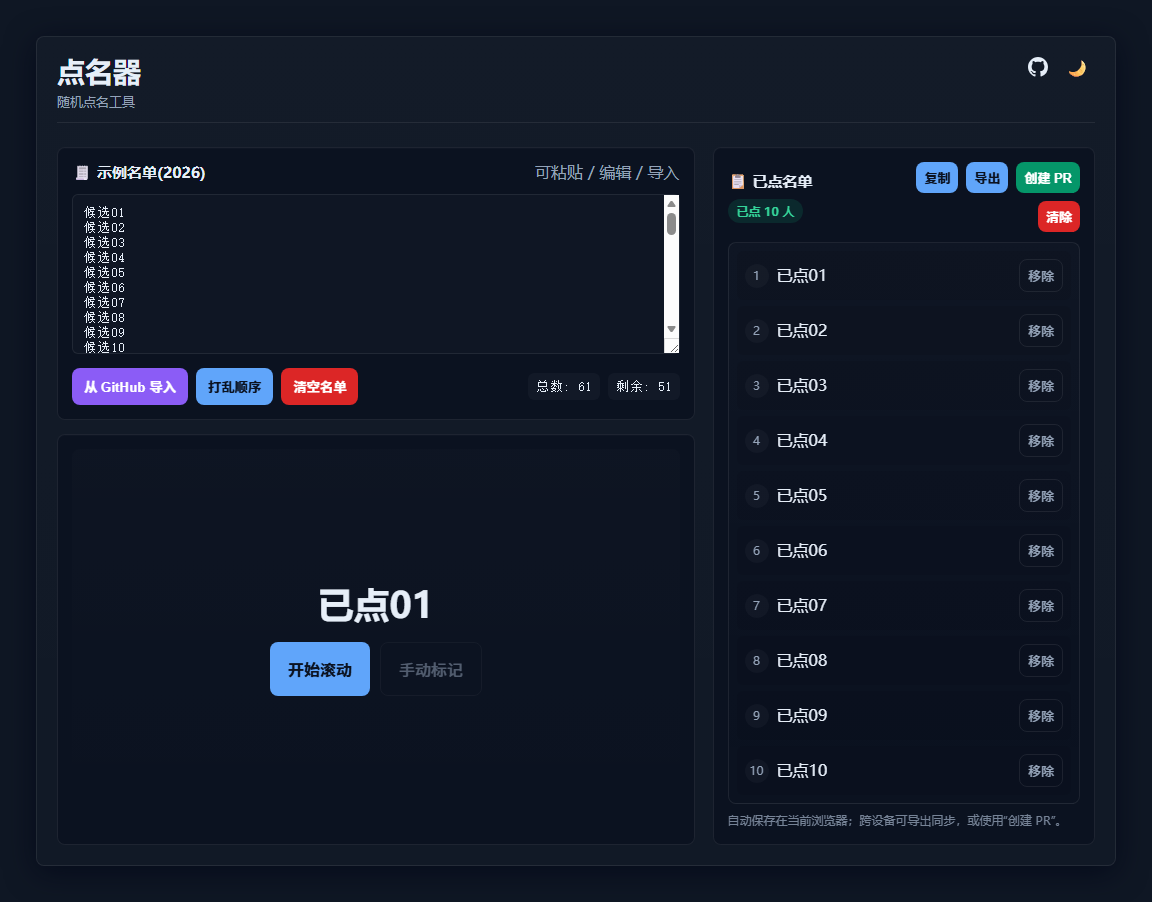
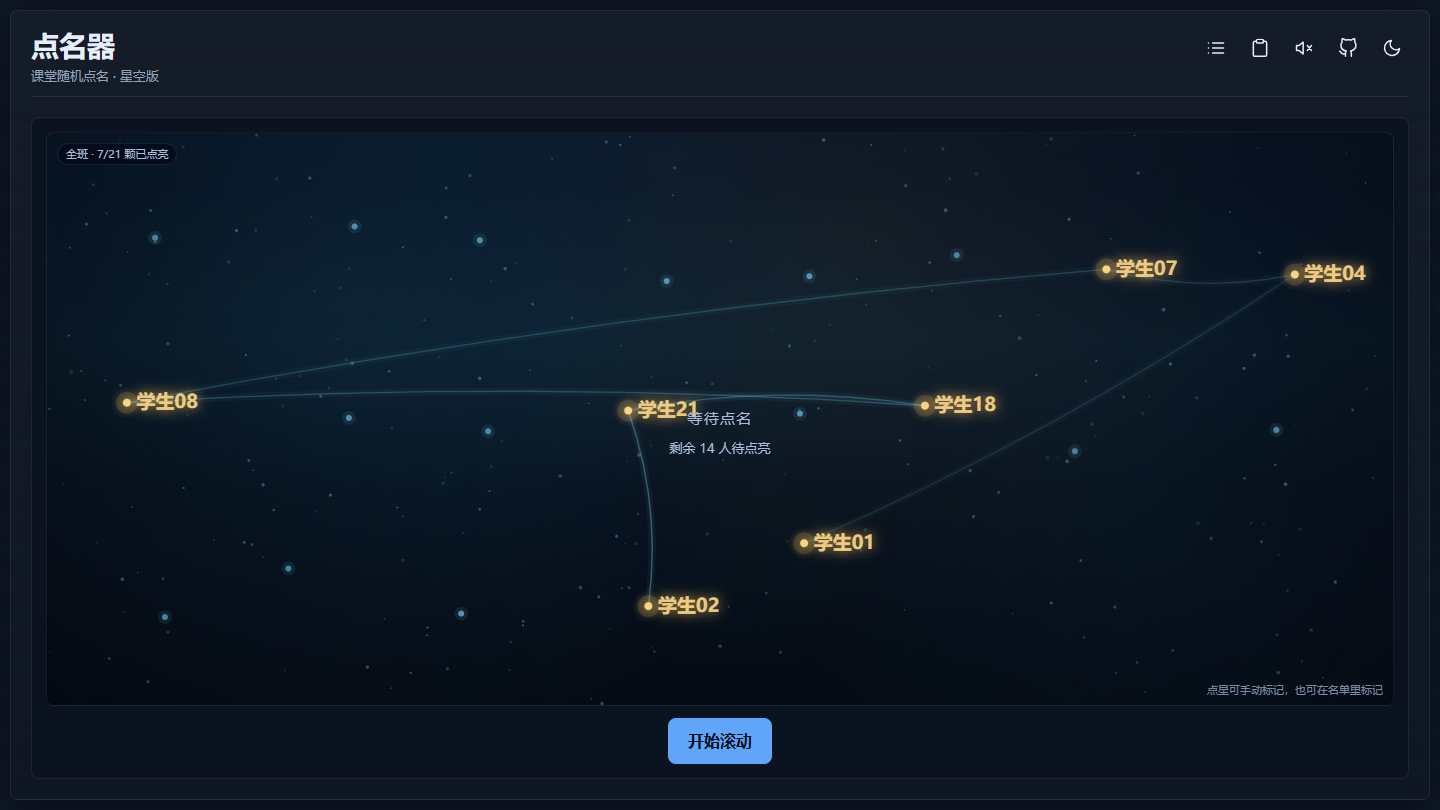
docs: README 与界面截图同步星空版
- README 重写：移除经典/星空双模式、名单区自动收起、右侧栏、切换视图等全部过时描述
- 改为纯星空 + 左右抽屉 + 双通道标记 + 星盘拖放 + 默认静音的准确口径
- 补齐数据迁移、隐私、reduced-motion 与 Pages 部署分支说明
- image/screenshot.png 换成 1440x810 首屏纯星空图，姓名均为「学生01…21」占位数据，不含真实班级名/学号/姓名
- 旧经典视图截图已备份（本地备份目录，不入库）

diff --git a/README.md b/README.md
@@ -1,36 +1,33 @@
 # 点名器（Rollcall）
 
-一个可直接离线使用的课堂随机点名工具。支持经典与星空两种视图：名单导入、随机抽取、已点名单记录与跨设备续点，都围绕课堂现场的实际操作设计。
+一个可直接离线使用的课堂随机点名工具。名单是星：点名即点亮，已点的星连成星座。首屏只有一片星空和一个「开始滚动」，名单与点名记录都收进两侧抽屉，不占用投影画面。
 
 [![界面截图](image/screenshot.png)](image/screenshot.png)
 
 在线体验：[点名器在线页面](https://psychelzh.github.io/rollcall/)
 
-> `image/screenshot.png` 是经典视图的旧版截图；星空模式的实际效果请打开页面后点右上角「星空」切换查看。
+> 在线页面跟随仓库默认分支。本次星空版位于 `starfield` 分支，合并到默认分支后线上才会更新。
 
-## 这一版改了什么
+## 这一版的界面
 
-| 环节 | 以前 | 现在 |
-| --- | --- | --- |
-| 名单导入 | 只能手动粘贴，或先传到 GitHub 仓库再联网拉取 | 本地文件拖拽 / 点选，支持 .txt / .csv / .tsv，可一次选多份 |
-| CSV 解析 | 按换行硬切，表头和多列会被当成一个「姓名」 | 自动跳过表头、识别姓名列与「班级」列，兼容 BOM、CRLF、引号、逗号/制表符/分号分隔 |
-| 导入确认 | 直接覆盖，且会清空已点记录 | 先预览人数、星区、重复项、异常行，再选「追加」或「替换」，默认保留已点进度 |
-| 已点名单上传 | 没有对应功能，导出是单向的 | 「传回」把导出的文件重新载入并接续进度；「同步」把提交 GitHub 简化为填仓库 + PAT 两步 |
-| 点名界面 | 只有文字滚动 | 新增可切换的「星空模式」：学生是星，点名即点亮，已点的星连成星座 |
+| 位置 | 内容 |
+| --- | --- |
+| 首屏 | 整片星图 + 一个「开始滚动」按钮；名单输入框、控制按钮、已点名单都不常驻 |
+| 头部「名单」按钮 | 左侧滑出抽屉：粘贴 / 编辑名单、拖入或选择文件、GitHub 导入、打乱、清空、待点名单逐人列表 |
+| 头部「已点名单」按钮 | 右侧滑出抽屉：已点列表、复制 / 导出 / 传回 / 同步 / 清除 |
+| 其他头部按钮 | 抽中提示音开关（默认关闭）、白天 / 夜间主题、项目仓库 |
 
-## 星空模式
+两个抽屉互斥，点遮罩、按 Esc 或点关闭按钮都能退出。星图始终是深空底色；白天 / 夜间主题只改变页面外壳，不改变画布。
 
-- 一名学生对应一颗星，位置按姓名哈希固定，点名不会让任何一颗星换位置，刷新也不乱跑。
-- 未点是暗星；滚动时星光在星群间流转；停止时定格点亮，带辉光与涟漪。
-- 已点亮的星按点名先后连成星座线，一学期下来逐步连满。
-- **星空模式不占右侧栏**：星图吃满整行宽度；名单区自动收成一行摘要（班级、人数、已点、剩余），点右侧小箭头可随时展开。
-- **已点学生的姓名直接标在各自星点旁**，星图本身就是完整的点名记录，不必再看侧边列表。
-- 点击未点亮的星可以直接手动标记；命名与增删改到「经典」视图操作（导出、传回、同步、清除也在那里）。
-- 星空画布始终是深空底色，课堂投影对比度更高；页面白天 / 夜间主题不影响画布。
-- 大号姓名只在滚动与出结果时出现，空闲时星图保持完整可见。
-- 星点与标注大小随画布自适应，1920×1080 与 1366×768 投影下都保持可读。
+## 名单导入
 
-**分组规则**
+- 支持 `.txt` / `.csv` / `.tsv`，可一次选多份，也可直接粘贴姓名（每行一个，或逗号 / 分号分隔）。
+- 可把文件拖进名单抽屉的虚线区，也可**直接拖到整片星图上**，不必先打开抽屉。
+- CSV 自动跳过表头、识别姓名列与「班级」列，兼容 BOM、CRLF、引号与多种分隔符。
+- 导入前先预览人数、星区、重复项与异常行，再选「追加」或「替换」；默认保留已有点名进度。
+- 也可从 GitHub 仓库读取 CSV 导入（需网络，属于用户主动发起的请求）。
+
+**星区规则**：班级信息是可选增强，不是必填项。
 
 | 导入时掌握的信息 | 星图表现 |
 | --- | --- |
@@ -38,30 +35,40 @@
 | 单个文件带「班级」列 | 按该列取值分星区 |
 | 只有一个名单、没有任何班级信息 | 全班一片星空 |
 
-班级信息是可选增强，不是必填项。工具不会因为缺班级信息而强行分组或要求补填；导入预览里报几个星区，确认后就是几个。
+预览里报几个星区，确认后就是几个；工具不会因为缺班级信息而强行分组或要求补填。
 
-## 使用方法
+## 点名与手动标记
 
-1. 打开 `index.html`（双击即可，无需服务器、无需联网），或访问在线页面。
-2. 导入名单：把文件拖进「名单输入」上方的虚线框，或点击选择，也可直接粘贴姓名；名单区收起时（星空模式默认收起），把文件拖到页面任意位置也能直接弹出导入预览。
-3. 在预览弹窗里核对人数、星区、重复项与异常行，选「追加」或「替换」后确认。
-4. 点「开始滚动」再点「停止」抽取一名，重复直到名单结束。
-5. 右上角切换「经典 / 星空」，两种视图共用同一份进度；星空模式会自动收起名单区、隐藏右侧栏，把版面全给星图。
-6. 已点名单可「复制 / 导出 / 传回 / 同步 / 清除」（经典视图下）；导出后在另一台设备用「传回」接着点。
+1. 打开 `index.html`（双击即可，无需服务器与网络），或访问在线页面。
+2. 点头部「名单」按钮打开左侧抽屉导入名单；也可把文件直接拖到星图上。
+3. 在预览弹窗核对人数、星区、重复项与异常行，选「追加」或「替换」后确认。
+4. 点「开始滚动」，再点「停止」抽取一名；重复直到名单结束。
+5. 需要补点时，有两条入口：**点击星图上未点亮的星**，或**在名单抽屉的「待点名单」里逐人点「标记」**。两条都走同一套抽出逻辑，同样触发点亮、庆祝与（开启后的）提示音。
+6. 点头部「已点名单」按钮打开右侧抽屉，查看记录并做复制 / 导出 / 传回 / 同步 / 清除。
+
+### 星空怎么读
+
+- 一名学生对应一颗星，位置按姓名哈希固定，点名与刷新都不会让星换位置。
+- 未点是暗星；滚动时星光在星群间流转；停止时定格点亮，带辉光、涟漪与一次短暂的粒子迸发。
+- 已点亮的星按点名先后连成柔和弧线，越新的段落越亮，一学期下来逐步连满。
+- 已点学生的姓名直接标在各自星点旁，星图本身就是完整的点名记录。
+- 大号姓名只在滚动与出结果时出现，空闲时星图保持完整可见；星点与标注大小随画布自适应，1920×1080 与 1366×768 投影下都保持可读。
+- 抽中提示音由 Web Audio 即时合成（无音频文件），默认静音，点头部喇叭按钮开启。
 
 ## 已点名单的两条去路
 
-- **传回（本地文件）**：把之前导出的 `.txt` 拖到已点名单区域，或点「传回」选文件。工具会跳过已存在的姓名、只补入新记录，并同步把这些人从待点名单中移除。适用于换电脑、换浏览器后续点。支持先预览再确认。
+- **传回（本地文件）**：把之前导出的 `.txt` 拖进已点名单抽屉，或点「传回」选文件。工具会跳过已存在的姓名、只补入新记录，并同步把这些人从待点名单中移除。适用于换电脑、换浏览器后续点，支持先预览再确认。
 - **同步（GitHub）**：点「同步」只需填 `owner/repo` 和 PAT；文件路径、PR 标题、分支名自动生成，需要改时展开「高级设置」。仓库名会记住，PAT 只存在当前标签页的会话存储里，关闭标签页即失效，不写入 localStorage。
 
 > 私有仓库的 PAT 需 `repo` 权限，公开仓库需 `public_repo` 权限。
 
 ## 数据与隐私
 
-- 待点名单、已点名单、分组、当前名单名、视图模式、主题保存在浏览器 `localStorage`。
-- 从旧版升级时会自动读取 `rollcall_all_names_v1` / `rollcall_called_names_v1` / `rollcall_current_list_name_v1` 并迁移，旧数据只读不删。
+- 待点名单、已点名单、分组、当前名单名、主题保存在浏览器 `localStorage`（键 `rollcall_state_v2`）；提示音开关单独存放，不混入名单状态。
+- 从旧版升级时会自动读取 `rollcall_all_names_v1` / `rollcall_called_names_v1` / `rollcall_current_list_name_v1` 并迁移，旧数据只读不删。更早版本里的「视图模式」字段会被忽略（本版没有模式切换）。
 - 名单解析全部在浏览器本地完成，不上传任何学生信息；唯一的外部请求是用户主动发起的 GitHub 导入 / 同步。
 - 「清空名单」「清除已点名单」不可恢复，执行前会二次确认。
+- 本仓库内的界面截图使用占位姓名，不含真实学生数据。
 
 ## 技术实现
 
@@ -69,17 +76,18 @@
 
 | 文件 | 职责 |
 | --- | --- |
-| `index.html` | 页面结构、内联 SVG 图标集、各功能弹窗 |
-| `styles.css` | 设计 Token、白天/夜间主题、双视图布局、响应式 |
-| `script.js` | 存储与 v1 迁移、名单解析、导入预览、点名引擎、Canvas 星空渲染、GitHub 同步 |
+| `index.html` | 页面结构、内联 SVG 图标集、左右抽屉与各功能弹窗 |
+| `styles.css` | 设计 Token、白天 / 夜间主题、抽屉与响应式布局、主题化滚动条 |
+| `script.js` | 存储与 v1 迁移、名单解析、导入预览、点名引擎、Canvas 星图渲染、GitHub 同步 |
 
-分层：状态与存储 → 名单解析 → 导入 / 预览 → 点名引擎 → 视图渲染 → 事件绑定。两种视图共用同一个点名引擎与同一份数据，切换视图不丢进度。
+分层：状态与存储 → 名单解析 → 导入 / 预览 → 点名引擎 → 视图渲染 → 事件绑定。
 
-- 图标是一套内联 SVG 描边图标（16 / 20 / 24px），不使用 emoji 作为功能图标。
-- 颜色全部通过 CSS 变量引用，星空 Canvas 也从同一套 Token 取色。
-- 支持 `prefers-reduced-motion`；开启系统「减少动态效果」时关闭闪烁与涟漪。
-- 桌面端页面撑满视口高度、宽度上限 1440px；星空模式下侧栏隐藏、星图独占整行，1920×1080 下可达约 1366×739 的绘制区。窄屏自动改为纵向滚动布局。
-- 星图用 `ResizeObserver` 跟随容器尺寸重排，收起名单区、切换侧栏、缩放窗口都会即时重算星点位置与标注字号。
+- 星图用 Canvas 2D；星云、边缘柔光与辉光精灵预渲染到离屏画布，绘制期不新建渐变对象；`ResizeObserver` 跟随容器尺寸即时重排。
+- 图标是一套内联 SVG 描边图标，不使用 emoji 作为功能图标。
+- 颜色全部通过 CSS 变量引用，Canvas 也从同一套 Token 取色；新增色值只落在 Token 定义区。
+- 支持 `prefers-reduced-motion`：开启系统「减少动态效果」后，星云保持静态，流星、视差、粒子迸发与连线渐显全部关闭，只保留一次静态高亮。
+- 桌面端页面撑满视口高度，星图独占主区；窄屏改为纵向滚动布局，抽屉转为全宽。
+- 开发过程中的静态检查与浏览器端到端用例保存在本地 `.workbuddy/`（已忽略，不入库）。
 
 ## 二次部署（可选）
 
